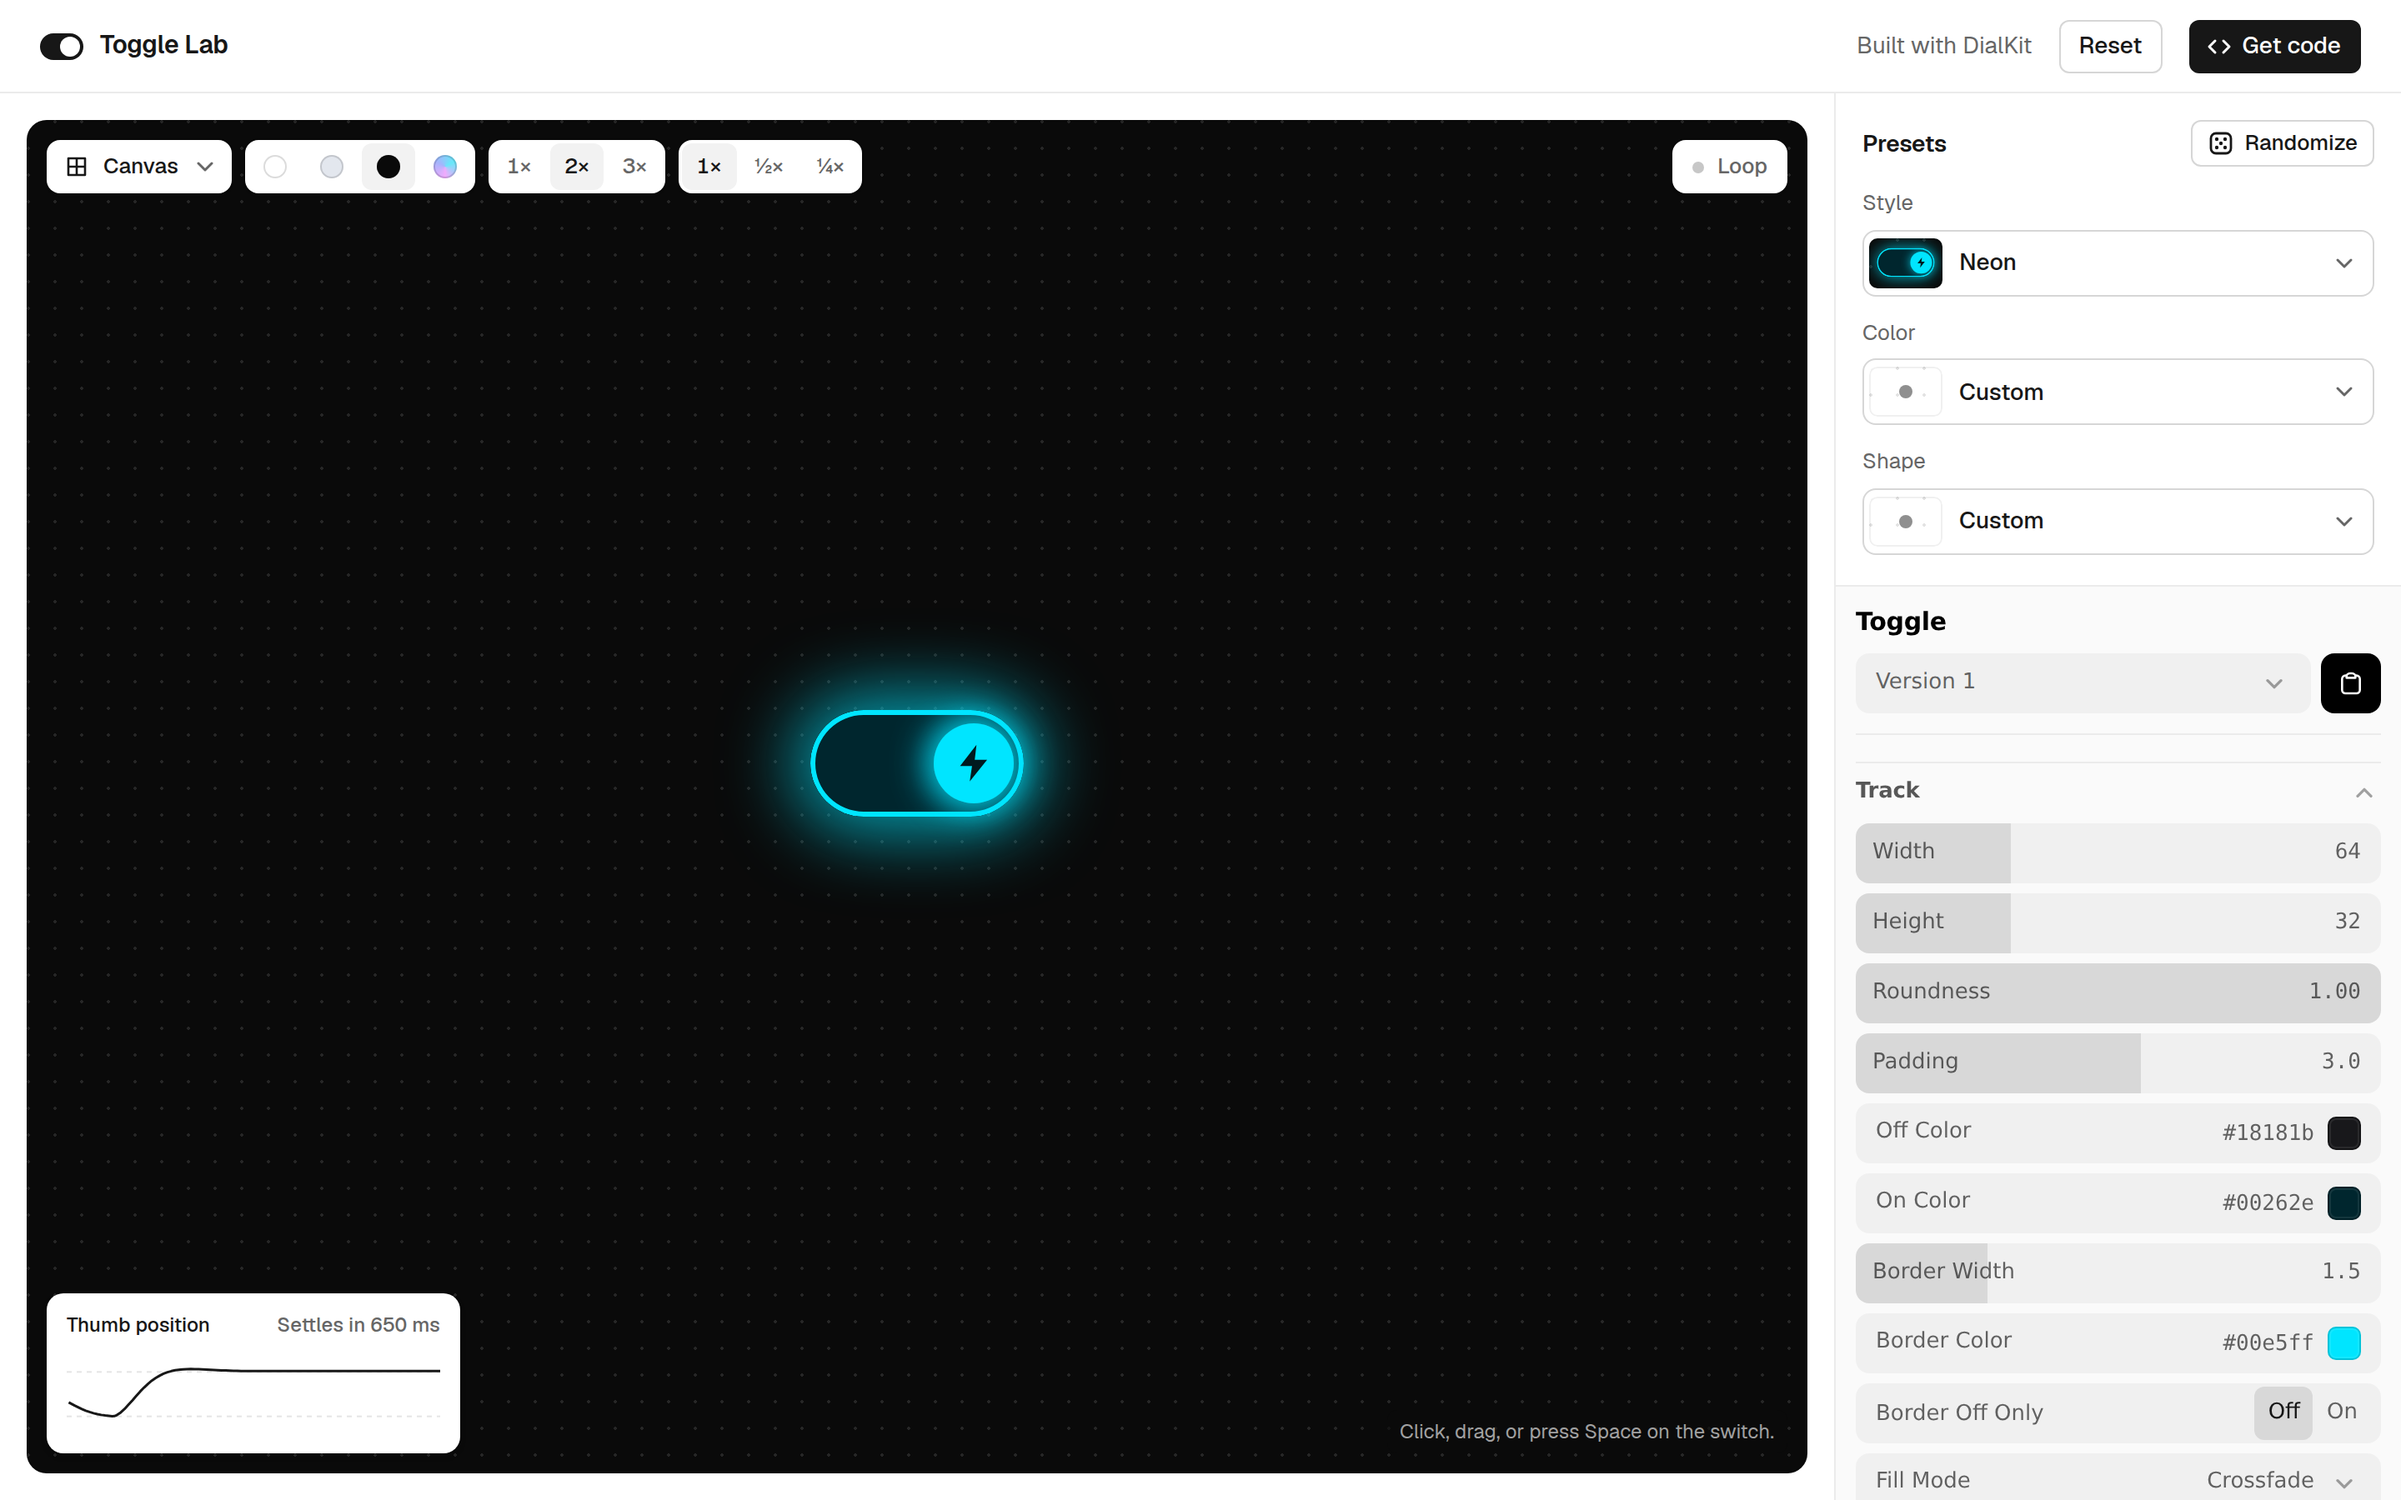
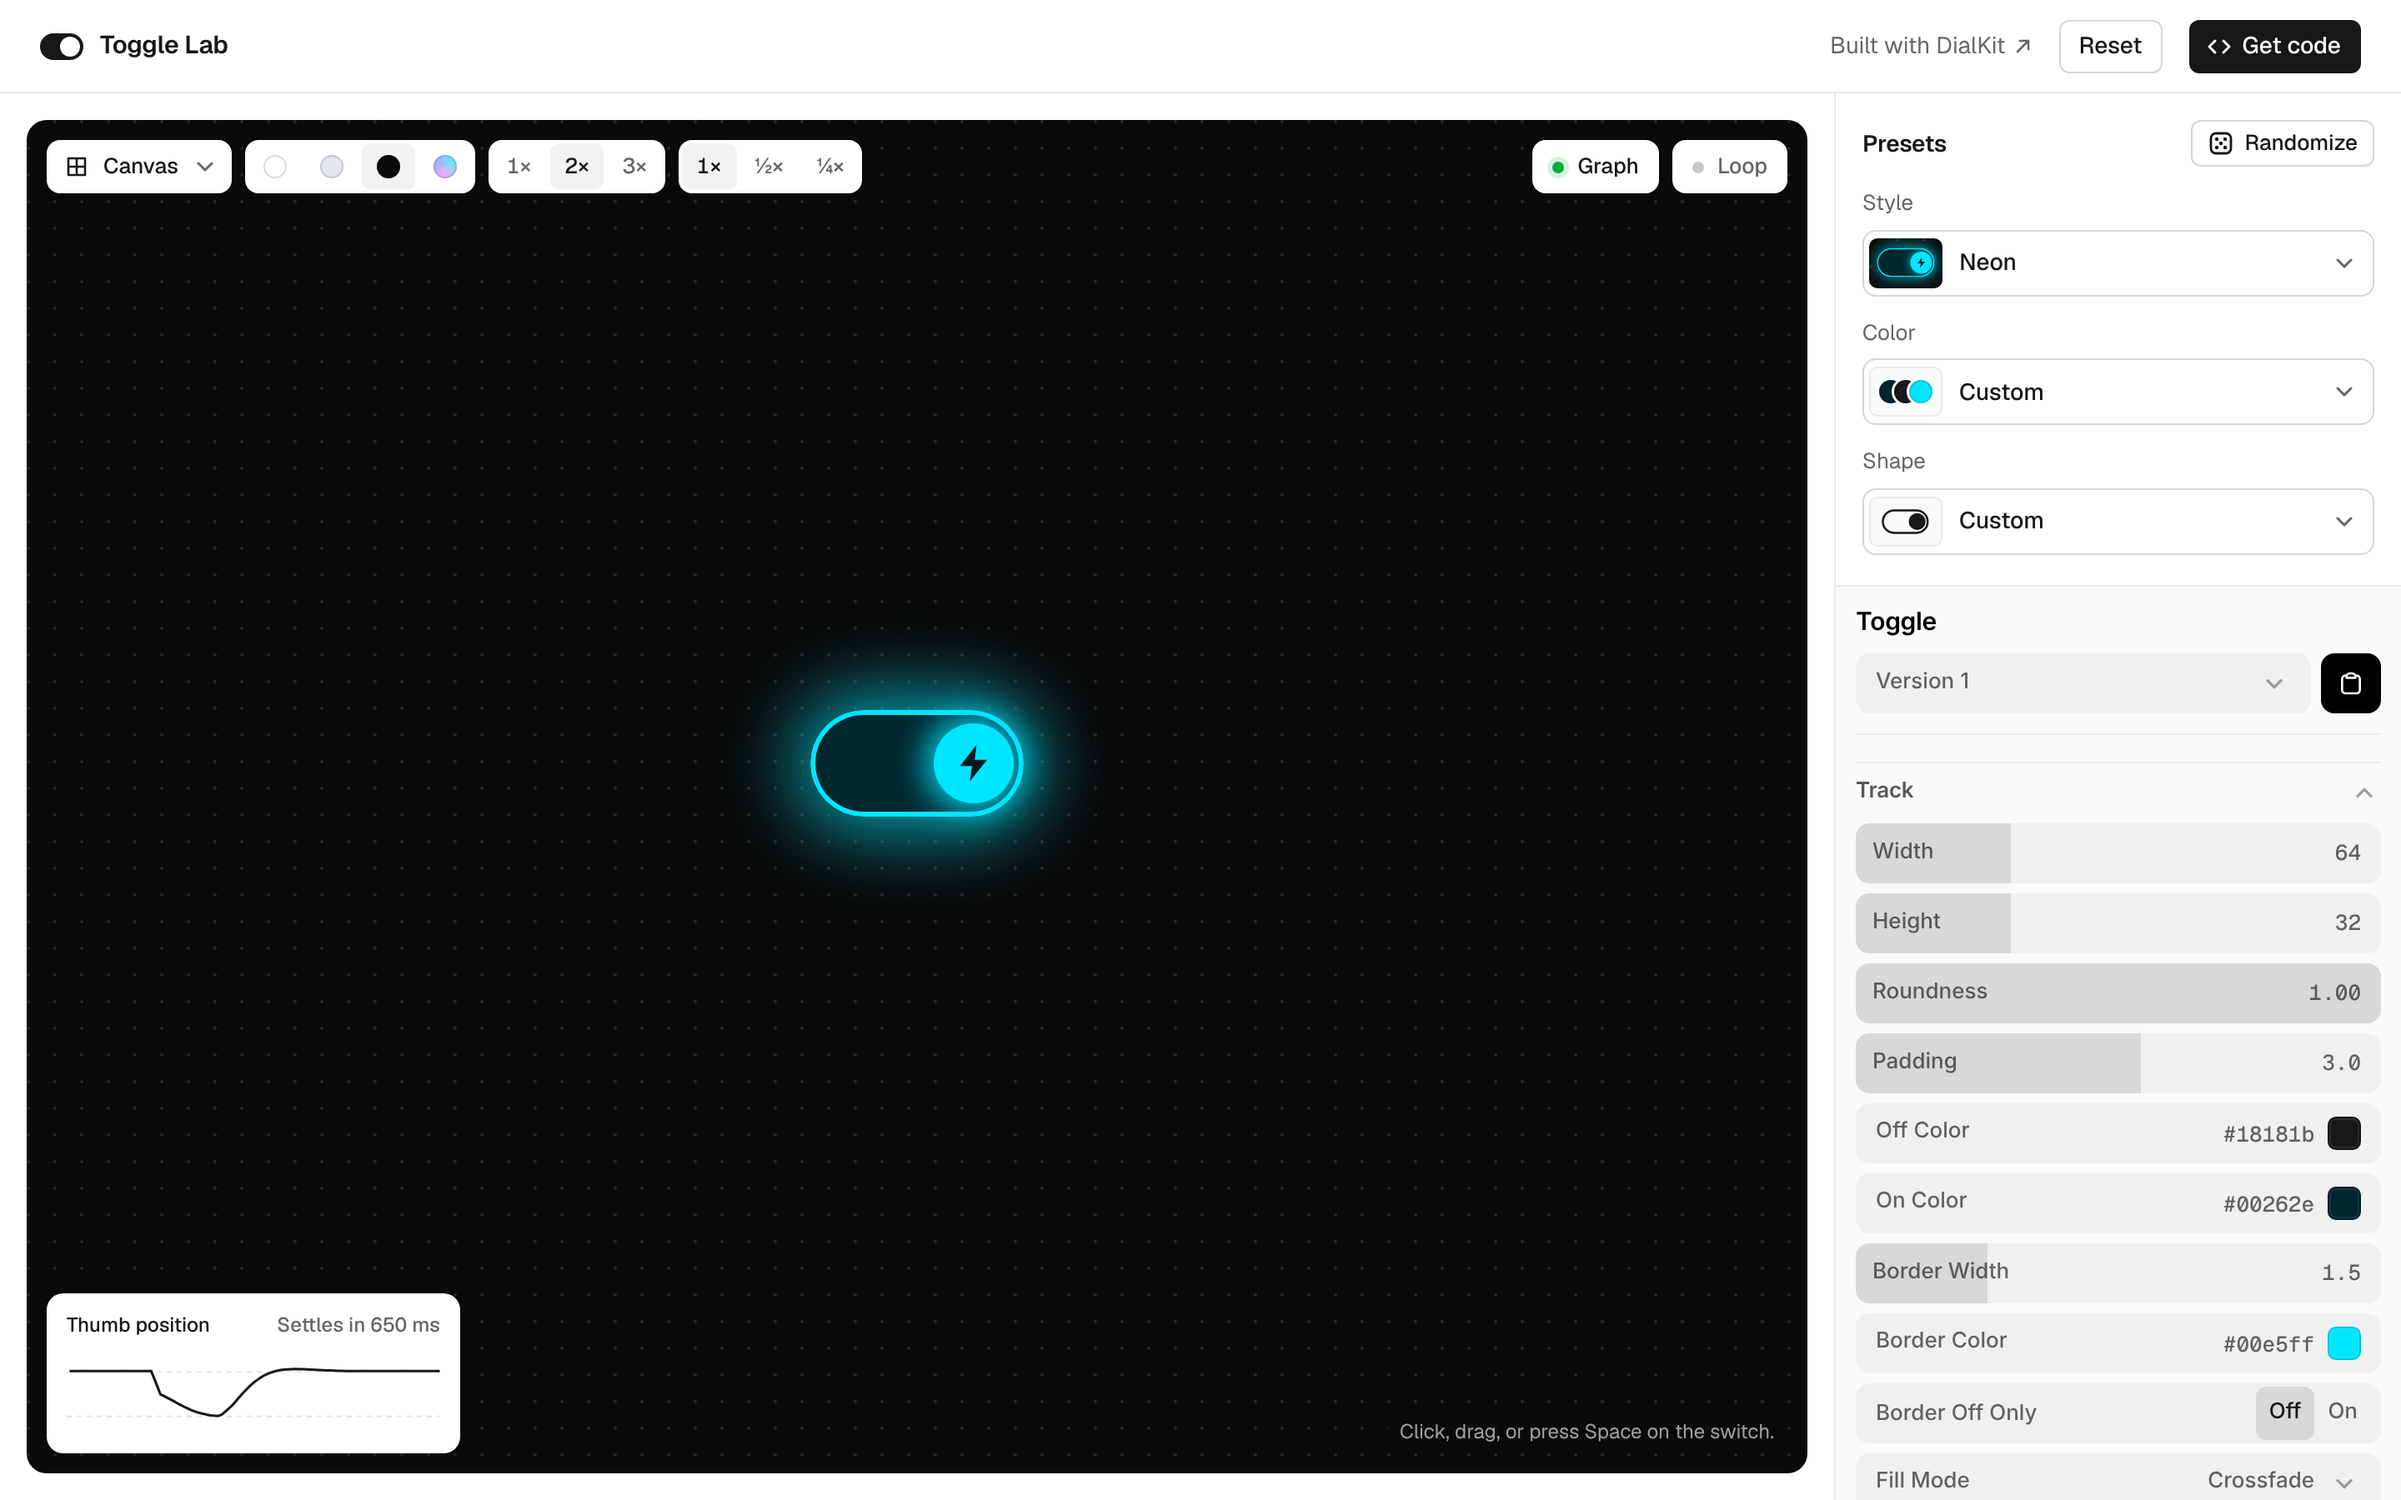
Prepare for a public launch
- LICENSE: real copyright holder instead of the template placeholder.
- Documentation view: if its lazy-loaded chunk fails (e.g. an open tab
  after a redeploy), show a "Reload" prompt instead of a blank app.
- Link previews: Open Graph and Twitter card tags plus a 1200x630
  public/og.png rendered from the app's own presets.
- README screenshot retaken from the current UI.
- CONTRIBUTING no longer claims a CI check that doesn't exist.

Claude-Session: https://claude.ai/code/session_01JeMFztpsMqfku7aVvegPBA

diff --git a/src/App.jsx b/src/App.jsx
@@ -1,4 +1,4 @@
-import { lazy, Suspense, useCallback, useEffect, useMemo, useRef, useState } from "react";
+import { Component, lazy, Suspense, useCallback, useEffect, useMemo, useRef, useState } from "react";
 import { DialRoot, DialStore, useDialKitController } from "dialkit";
 import { useReducedMotion } from "motion/react";
 import { Toggle } from "./Toggle.jsx";
@@ -20,6 +20,29 @@ const docsFallback = (
     </div>
   </div>
 );
+
+// After a redeploy, an open tab may ask for a Docs chunk that no longer exists.
+// Offer a reload instead of letting the whole app go blank.
+class DocsBoundary extends Component {
+  state = { failed: false };
+  static getDerivedStateFromError() {
+    return { failed: true };
+  }
+  render() {
+    if (!this.state.failed) return this.props.children;
+    return (
+      <div className="docs is-loading">
+        <div className="docs-loading" role="alert">
+          <p className="docs-loading-title">Couldn’t load the docs</p>
+          <p className="docs-loading-step">A new version of Toggle Lab is probably available.</p>
+          <button type="button" className="btn btn-primary btn-small" onClick={() => window.location.reload()}>
+            Reload
+          </button>
+        </div>
+      </div>
+    );
+  }
+}
 
 const BACKGROUNDS = [
   { id: "paper", label: "Paper" },
@@ -192,9 +215,11 @@ export default function App() {
           <div className={`stage-scene${isCanvas ? ` stage-${bg}` : ""}`}>
             <SceneCtx.Provider value={ctx}>
               {isDocs ? (
-                <Suspense fallback={docsFallback}>
-                  <Docs v={v} docs={docs} onDocs={setDocs} styleName={activeStyle?.name} />
-                </Suspense>
+                <DocsBoundary>
+                  <Suspense fallback={docsFallback}>
+                    <Docs v={v} docs={docs} onDocs={setDocs} styleName={activeStyle?.name} />
+                  </Suspense>
+                </DocsBoundary>
               ) : isCanvas ? (
                 <div className="stage-canvas">
                   <div className="stage-zoom" style={{ transform: `scale(${zoom})` }}>

diff --git a/index.html b/index.html
@@ -6,6 +6,23 @@
     <title>Toggle Lab</title>
     <meta name="description" content="Design a switch: shape, color, motion and effects, tuned live with DialKit." />
     <link rel="icon" href="./favicon.svg" type="image/svg+xml" />
+    <link rel="canonical" href="https://toggle-lab.vercel.app/" />
+    <meta name="theme-color" content="#ffffff" />
+
+    <!-- Link previews (absolute URLs, as crawlers require) -->
+    <meta property="og:type" content="website" />
+    <meta property="og:site_name" content="Toggle Lab" />
+    <meta property="og:url" content="https://toggle-lab.vercel.app/" />
+    <meta property="og:title" content="Toggle Lab" />
+    <meta property="og:description" content="Design a switch: shape, color, motion and effects, tuned live with DialKit. Export HTML + CSS, React, SVG or PNG." />
+    <meta property="og:image" content="https://toggle-lab.vercel.app/og.png" />
+    <meta property="og:image:width" content="1200" />
+    <meta property="og:image:height" content="630" />
+    <meta property="og:image:alt" content="Toggle Lab: six switch styles, from Neon to Lightsaber" />
+    <meta name="twitter:card" content="summary_large_image" />
+    <meta name="twitter:title" content="Toggle Lab" />
+    <meta name="twitter:description" content="Design a switch: shape, color, motion and effects, tuned live with DialKit. Export HTML + CSS, React, SVG or PNG." />
+    <meta name="twitter:image" content="https://toggle-lab.vercel.app/og.png" />
   </head>
   <body>
     <div id="root"></div>

diff --git a/CONTRIBUTING.md b/CONTRIBUTING.md
@@ -9,7 +9,7 @@ npm install
 npm run dev
 ```
 
-Before opening a pull request, make sure `npm run build` passes. CI runs the same check.
+Before opening a pull request, make sure `npm run build` passes.
 
 ## Adding a style preset
 
